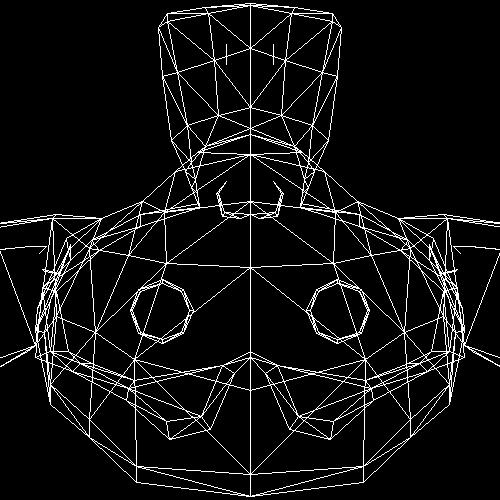
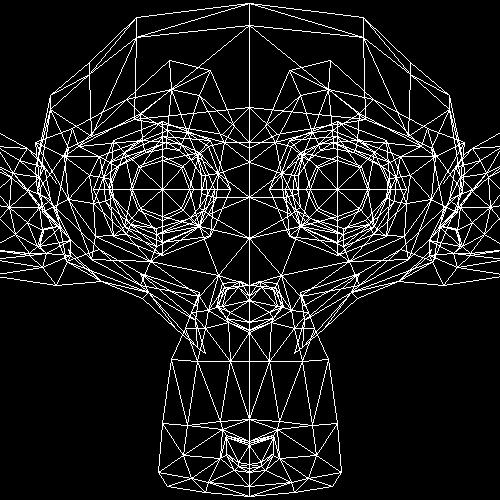
fixed bug in culling

diff --git a/main.cpp b/main.cpp
@@ -44,12 +44,12 @@ int main(int argc, char** argv) {
         int width = 500, height = 500;
         TGAImage image(width, height, TGAImage::RGB);
         Model monke("./suzanne.obj");
-        Vec3 camera{0, 0, 1};
+        Vec3 camera{0, 0, 500};
         for (int i=0; i < monke.nfaces(); i++) {
                 std::vector<int> face = monke.face(i);
                 // deciding if it should be drawn or not
                 Vec3 normal = (monke.vert(face[1]) - monke.vert(face[0])) ^ (monke.vert(face[2]) - monke.vert(face[0]));
-                if (camera*normal > 0) continue;
+                if ((monke.vert(face[0])-camera)*normal > 0) continue;
                 for (int j=0; j < 3; j++){
                         Vec3 v0 = monke.vert(face[j]);
                         Vec3 v1 = monke.vert(face[(j+1)%3]);

diff --git a/notes/Rendering a Wireframe.md b/notes/Rendering a Wireframe.md
@@ -170,12 +170,12 @@ int main(int argc, char** argv) {
         int width = 500, height = 500;
         TGAImage image(width, height, TGAImage::RGB);
         Model monke("./suzanne.obj");
-        Vec3 camera{0, 0, 1};
+        Vec3 camera{0, 0, 500};
         for (int i=0; i < monke.nfaces(); i++) {
                 std::vector<int> face = monke.face(i);
                 // deciding if it should be drawn or not
                 Vec3 normal = (monke.vert(face[1]![[Suzanne1.jpeg]]) - monke.vert(face[0])) ^ (monke.vert(face[2]) - monke.vert(face[0]));
-                if (camera*normal > 0) continue;
+                if ((monke.vert(face[0])-camera)*normal > 0) continue;
                 for (int j=0; j < 3; j++){
                         Vec3 v0 = monke.vert(face[j]);
                         Vec3 v1 = monke.vert(face[(j+1)%3]);
